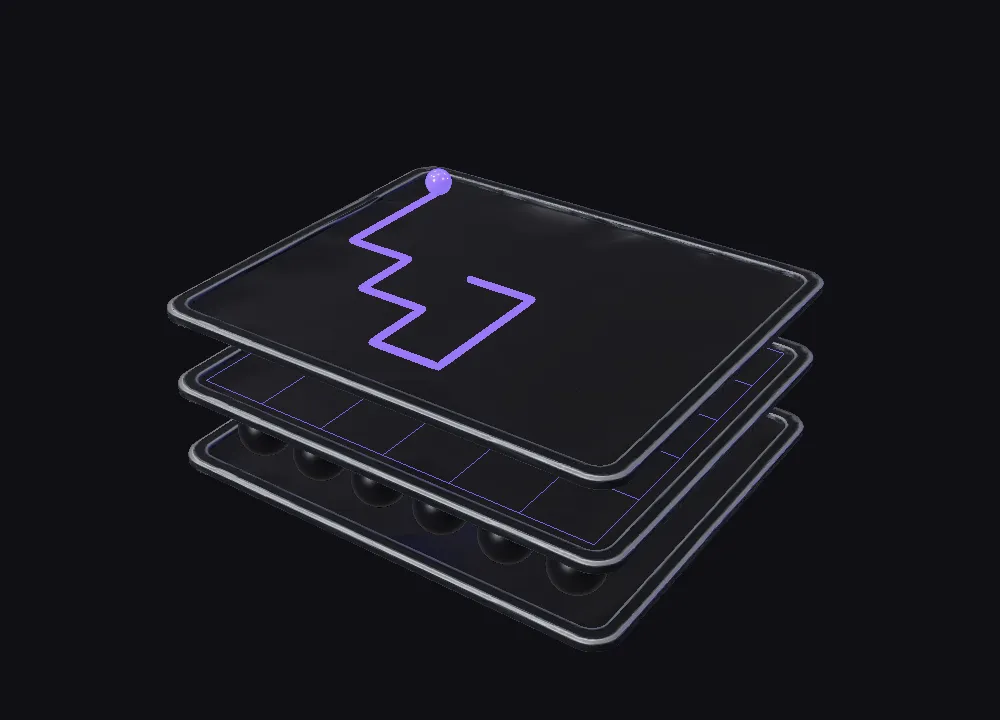
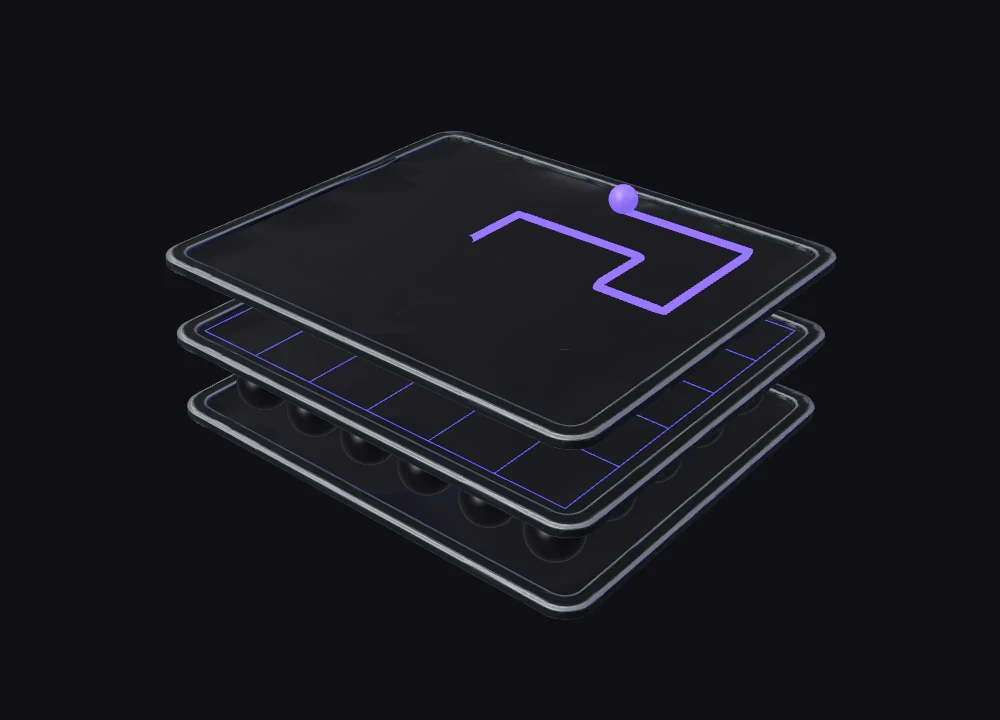
Keep the whole autospinner stack in frame when it opens
Aim at the middle plate and pull the camera back as the stack spreads, so
the bottom plate no longer drops out of the canvas. Re-render the poster
to match the new rest framing.

Changed region(s): [[0.155, 0.1833, 0.837, 0.9167], [0.465, 0.3667, 0.496, 0.3972]]

diff --git a/src/scripts/autospinner-object.js b/src/scripts/autospinner-object.js
@@ -48,10 +48,12 @@ export function mount(stage) {
     layers.forEach(l => rig.add(l));
 
     let camDist = 16.5;
-    function aimCamera(open) {
-      // rise with the stack so the top plate never leaves the frame
-      const cy = 1.4 + open * 1.25;
-      camera.position.set(camDist * 0.55, camDist * 0.52 + cy, camDist * 0.66);
+    function aimCamera(open, gap) {
+      // stay centred on the middle plate and pull back as the stack opens,
+      // so neither the top (03) nor the bottom (01) plate leaves the frame
+      const cy = gap + TOP * 0.5 - 0.3;   // -0.3: sit the model a little higher, even margins top and bottom
+      const d = camDist * (1 + 0.22 * open);
+      camera.position.set(d * 0.55, d * 0.52 + cy, d * 0.66);
       camera.lookAt(0, cy, 0);
     }
     function resize() {
@@ -230,7 +232,7 @@ export function mount(stage) {
       open += (openTarget - open) * Math.min(1, dt / 160);
       const gap = 1.05 + open * 1.25;
       layers[0].position.y = 0; layers[1].position.y = gap; layers[2].position.y = gap * 2;
-      aimCamera(open);
+      aimCamera(open, gap);
 
       // idle sway + pointer tilt
       const sway = reduce ? 0 : Math.sin(now / 2600) * 0.12;
